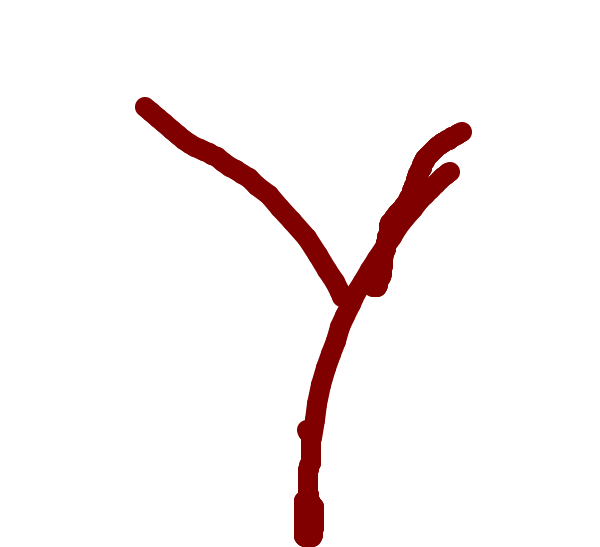
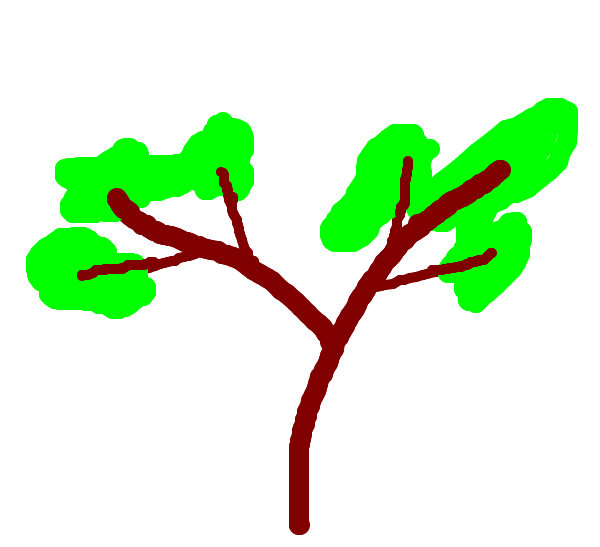
Sketch with multiple colors and width

Changed region(s): [[0.03, 0.1554, 0.99, 1.0]]

diff --git a/SketchTree/GeneratedFiles/ui_MainWindow.h b/SketchTree/GeneratedFiles/ui_MainWindow.h
@@ -1,7 +1,7 @@
 /********************************************************************************
 ** Form generated from reading UI file 'MainWindow.ui'
 **
-** Created: Fri Jul 17 18:03:23 2015
+** Created: Sun Jul 19 13:45:27 2015
 **      by: Qt User Interface Compiler version 4.8.1
 **
 ** WARNING! All changes made in this file will be lost when recompiling UI file!
@@ -37,11 +37,19 @@ public:
     QAction *actionLoadSketch;
     QAction *actionSaveSketch;
     QAction *actionNewSketch;
+    QAction *actionPenColorBranch;
+    QAction *actionPenColorLeaf;
+    QAction *actionPenWidth20;
+    QAction *actionPenWidth10;
+    QAction *actionPenWidth5;
     QWidget *centralWidget;
     QMenuBar *menuBar;
     QMenu *menuFile;
     QMenu *menuL_System;
     QMenu *menuMode;
+    QMenu *menuPen;
+    QMenu *menuColor;
+    QMenu *menuWidth;
     QToolBar *mainToolBar;
     QStatusBar *statusBar;
 
@@ -73,6 +81,21 @@ public:
         actionSaveSketch->setObjectName(QString::fromUtf8("actionSaveSketch"));
         actionNewSketch = new QAction(MainWindowClass);
         actionNewSketch->setObjectName(QString::fromUtf8("actionNewSketch"));
+        actionPenColorBranch = new QAction(MainWindowClass);
+        actionPenColorBranch->setObjectName(QString::fromUtf8("actionPenColorBranch"));
+        actionPenColorBranch->setCheckable(true);
+        actionPenColorLeaf = new QAction(MainWindowClass);
+        actionPenColorLeaf->setObjectName(QString::fromUtf8("actionPenColorLeaf"));
+        actionPenColorLeaf->setCheckable(true);
+        actionPenWidth20 = new QAction(MainWindowClass);
+        actionPenWidth20->setObjectName(QString::fromUtf8("actionPenWidth20"));
+        actionPenWidth20->setCheckable(true);
+        actionPenWidth10 = new QAction(MainWindowClass);
+        actionPenWidth10->setObjectName(QString::fromUtf8("actionPenWidth10"));
+        actionPenWidth10->setCheckable(true);
+        actionPenWidth5 = new QAction(MainWindowClass);
+        actionPenWidth5->setObjectName(QString::fromUtf8("actionPenWidth5"));
+        actionPenWidth5->setCheckable(true);
         centralWidget = new QWidget(MainWindowClass);
         centralWidget->setObjectName(QString::fromUtf8("centralWidget"));
         MainWindowClass->setCentralWidget(centralWidget);
@@ -85,6 +108,12 @@ public:
         menuL_System->setObjectName(QString::fromUtf8("menuL_System"));
         menuMode = new QMenu(menuBar);
         menuMode->setObjectName(QString::fromUtf8("menuMode"));
+        menuPen = new QMenu(menuBar);
+        menuPen->setObjectName(QString::fromUtf8("menuPen"));
+        menuColor = new QMenu(menuPen);
+        menuColor->setObjectName(QString::fromUtf8("menuColor"));
+        menuWidth = new QMenu(menuPen);
+        menuWidth->setObjectName(QString::fromUtf8("menuWidth"));
         MainWindowClass->setMenuBar(menuBar);
         mainToolBar = new QToolBar(MainWindowClass);
         mainToolBar->setObjectName(QString::fromUtf8("mainToolBar"));
@@ -96,6 +125,7 @@ public:
         menuBar->addAction(menuFile->menuAction());
         menuBar->addAction(menuL_System->menuAction());
         menuBar->addAction(menuMode->menuAction());
+        menuBar->addAction(menuPen->menuAction());
         menuFile->addAction(actionNewSketch);
         menuFile->addAction(actionLoadSketch);
         menuFile->addAction(actionSaveSketch);
@@ -107,6 +137,13 @@ public:
         menuL_System->addAction(actionGreedyInverse);
         menuMode->addAction(actionModeSketch);
         menuMode->addAction(actionMode3DView);
+        menuPen->addAction(menuColor->menuAction());
+        menuPen->addAction(menuWidth->menuAction());
+        menuColor->addAction(actionPenColorBranch);
+        menuColor->addAction(actionPenColorLeaf);
+        menuWidth->addAction(actionPenWidth20);
+        menuWidth->addAction(actionPenWidth10);
+        menuWidth->addAction(actionPenWidth5);
 
         retranslateUi(MainWindowClass);
 
@@ -129,11 +166,20 @@ public:
         actionLoadSketch->setText(QApplication::translate("MainWindowClass", "Load Sketch", 0, QApplication::UnicodeUTF8));
         actionLoadSketch->setShortcut(QApplication::translate("MainWindowClass", "Ctrl+O", 0, QApplication::UnicodeUTF8));
         actionSaveSketch->setText(QApplication::translate("MainWindowClass", "Save Sketch", 0, QApplication::UnicodeUTF8));
+        actionSaveSketch->setShortcut(QApplication::translate("MainWindowClass", "Ctrl+S", 0, QApplication::UnicodeUTF8));
         actionNewSketch->setText(QApplication::translate("MainWindowClass", "New Sketch", 0, QApplication::UnicodeUTF8));
         actionNewSketch->setShortcut(QApplication::translate("MainWindowClass", "Ctrl+N", 0, QApplication::UnicodeUTF8));
+        actionPenColorBranch->setText(QApplication::translate("MainWindowClass", "Branch", 0, QApplication::UnicodeUTF8));
+        actionPenColorLeaf->setText(QApplication::translate("MainWindowClass", "Leaf", 0, QApplication::UnicodeUTF8));
+        actionPenWidth20->setText(QApplication::translate("MainWindowClass", "20", 0, QApplication::UnicodeUTF8));
+        actionPenWidth10->setText(QApplication::translate("MainWindowClass", "10", 0, QApplication::UnicodeUTF8));
+        actionPenWidth5->setText(QApplication::translate("MainWindowClass", "5", 0, QApplication::UnicodeUTF8));
         menuFile->setTitle(QApplication::translate("MainWindowClass", "&File", 0, QApplication::UnicodeUTF8));
         menuL_System->setTitle(QApplication::translate("MainWindowClass", "&L-System", 0, QApplication::UnicodeUTF8));
         menuMode->setTitle(QApplication::translate("MainWindowClass", "&Mode", 0, QApplication::UnicodeUTF8));
+        menuPen->setTitle(QApplication::translate("MainWindowClass", "Pen", 0, QApplication::UnicodeUTF8));
+        menuColor->setTitle(QApplication::translate("MainWindowClass", "Color", 0, QApplication::UnicodeUTF8));
+        menuWidth->setTitle(QApplication::translate("MainWindowClass", "Width", 0, QApplication::UnicodeUTF8));
     } // retranslateUi
 
 };

diff --git a/SketchTree/MainWindow.cpp b/SketchTree/MainWindow.cpp
@@ -8,11 +8,28 @@ MainWindow::MainWindow(QWidget *parent, Qt::WFlags flags) : QMainWindow(parent, 
 	ui.setupUi(this);
 
 	// UI設定
-	QActionGroup* group = new QActionGroup(this);
+	QActionGroup* groupMode = new QActionGroup(this);
 	ui.actionModeSketch->setCheckable(true);
 	ui.actionMode3DView->setCheckable(true);
-	ui.actionModeSketch->setActionGroup(group);
-	ui.actionMode3DView->setActionGroup(group);
+	ui.actionModeSketch->setActionGroup(groupMode);
+	ui.actionMode3DView->setActionGroup(groupMode);
+	ui.actionModeSketch->setChecked(true);
+
+	QActionGroup* groupPenColor = new QActionGroup(this);
+	ui.actionPenColorBranch->setCheckable(true);
+	ui.actionPenColorLeaf->setCheckable(true);
+	ui.actionPenColorBranch->setActionGroup(groupPenColor);
+	ui.actionPenColorLeaf->setActionGroup(groupPenColor);
+	ui.actionPenColorBranch->setChecked(true);
+
+	QActionGroup* groupPenWidth = new QActionGroup(this);
+	ui.actionPenWidth20->setCheckable(true);
+	ui.actionPenWidth10->setCheckable(true);
+	ui.actionPenWidth5->setCheckable(true);
+	ui.actionPenWidth20->setActionGroup(groupPenWidth);
+	ui.actionPenWidth10->setActionGroup(groupPenWidth);
+	ui.actionPenWidth5->setActionGroup(groupPenWidth);
+	ui.actionPenWidth20->setChecked(true);
 
 	// メニューハンドラ
 	connect(ui.actionNewSketch, SIGNAL(triggered()), this, SLOT(onNewSketch()));
@@ -24,6 +41,11 @@ MainWindow::MainWindow(QWidget *parent, Qt::WFlags flags) : QMainWindow(parent, 
 	connect(ui.actionGreedyInverse, SIGNAL(triggered()), this, SLOT(onGreedyInverse()));
 	connect(ui.actionModeSketch, SIGNAL(triggered()), this, SLOT(onModeUpdate()));
 	connect(ui.actionMode3DView, SIGNAL(triggered()), this, SLOT(onModeUpdate()));
+	connect(ui.actionPenColorBranch, SIGNAL(triggered()), this, SLOT(onPenColorUpdate()));
+	connect(ui.actionPenColorLeaf, SIGNAL(triggered()), this, SLOT(onPenColorUpdate()));
+	connect(ui.actionPenWidth20, SIGNAL(triggered()), this, SLOT(onPenWidthUpdate()));
+	connect(ui.actionPenWidth10, SIGNAL(triggered()), this, SLOT(onPenWidthUpdate()));
+	connect(ui.actionPenWidth5, SIGNAL(triggered()), this, SLOT(onPenWidthUpdate()));
 
 	glWidget = new GLWidget3D(this);
 	setCentralWidget(glWidget);
@@ -118,5 +140,23 @@ void MainWindow::onModeUpdate() {
 		glWidget->mode = GLWidget3D::MODE_SKETCH;
 	} else {
 		glWidget->mode = GLWidget3D::MODE_3DVIEW;
+	}
+}
+
+void MainWindow::onPenColorUpdate() {
+	if (ui.actionPenColorBranch->isChecked()) {
+		glWidget->pen.setType(Pen::COLOR_BRANCH);
+	} else {
+		glWidget->pen.setType(Pen::COLOR_LEAF);
+	}
+}
+
+void MainWindow::onPenWidthUpdate() {
+	if (ui.actionPenWidth20->isChecked()) {
+		glWidget->pen.setWidth(20);
+	} else if (ui.actionPenWidth10->isChecked()) {
+		glWidget->pen.setWidth(10);
+	} else {
+		glWidget->pen.setWidth(5);
 	}
 }

diff --git a/SketchTree/GLWidget3D.cpp b/SketchTree/GLWidget3D.cpp
@@ -2,11 +2,26 @@
 #include <iostream>
 #include "GLUtils.h"
 
+Pen::Pen() {
+	this->setType(COLOR_BRANCH);
+	this->setWidth(20);
+	this->setStyle(Qt::SolidLine);
+	this->setCapStyle(Qt::RoundCap);
+	this->setJoinStyle(Qt::RoundJoin);
+}
+
+void Pen::setType(int type) {
+	if (type == COLOR_BRANCH) {
+		this->setColor(QColor(128, 0, 0, 255));
+	} else if (type == COLOR_LEAF) {
+		this->setColor(QColor(0, 255, 0, 255));
+	}
+}
+
 GLWidget3D::GLWidget3D(QWidget *parent) : QGLWidget(QGLFormat(QGL::SampleBuffers), parent), lsystem(300, parametriclsystem::Literal("X", 0, 18.0f, 4.5f)) {
 	mode = MODE_SKETCH;
 	dragging = false;
-	color = QColor(128, 0, 0, 255);
-	penWidth = 20;
+	pen.setType(Pen::COLOR_BRANCH);
 	
 	// これがないと、QPainterによって、OpenGLによる描画がクリアされてしまう
 	setAutoFillBackground(false);
@@ -68,7 +83,7 @@ void GLWidget3D::drawLineTo(const QPoint &endPoint) {
 	QPoint pt2(endPoint.x(), endPoint.y());
 
 	QPainter painter(&sketch);
-	painter.setPen(QPen(color, penWidth, Qt::SolidLine, Qt::RoundCap, Qt::RoundJoin));
+	painter.setPen(pen);
 	painter.setRenderHint(QPainter::Antialiasing);
 	painter.setRenderHint(QPainter::HighQualityAntialiasing);
 

diff --git a/SketchTree/GLWidget3D.h b/SketchTree/GLWidget3D.h
@@ -11,6 +11,16 @@
 #include "ShadowMapping.h"
 #include "Camera.h"
 
+class Pen : public QPen {
+public:
+	static enum { COLOR_BRANCH = 0, COLOR_LEAF };
+
+public:
+	Pen();
+
+	void setType(int type);
+};
+
 class GLWidget3D : public QGLWidget {
 	Q_OBJECT
 
@@ -32,8 +42,7 @@ public:
 	bool dragging;
 	QPoint lastPoint;
 	QImage sketch;
-	QColor color;
-	int penWidth;
+	Pen pen;
 
 public:
 	GLWidget3D(QWidget *parent = 0);

diff --git a/SketchTree/MainWindow.h b/SketchTree/MainWindow.h
@@ -24,6 +24,8 @@ public slots:
 	void onRandomGeneration();
 	void onGreedyInverse();
 	void onModeUpdate();
+	void onPenColorUpdate();
+	void onPenWidthUpdate();
 };
 
 #endif // MAINWINDOW_H
